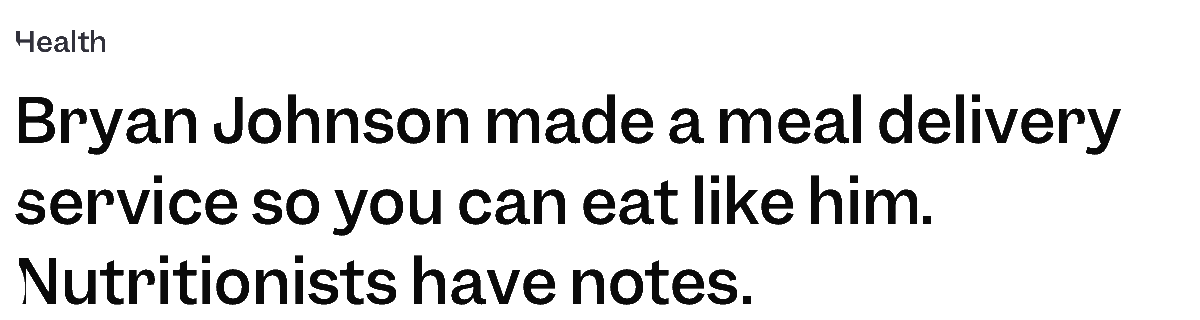
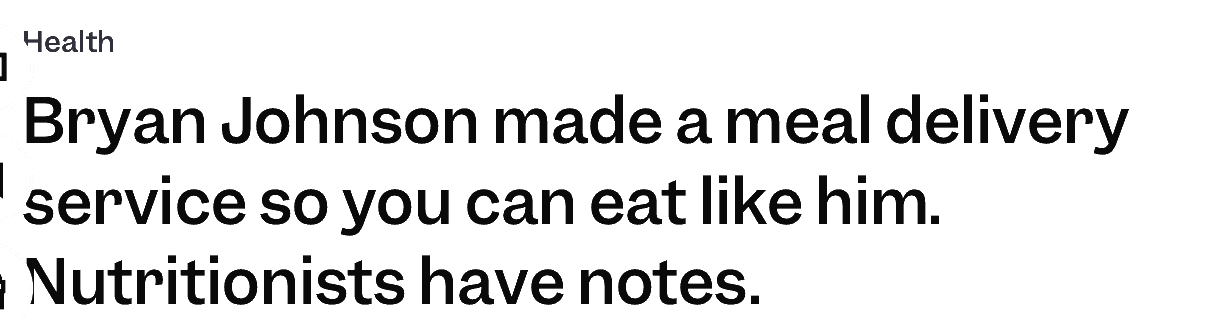
BI Story: use 'people do best when they have choices' quote, clean crops
Claude-Session: https://claude.ai/code/session_01CF5kZPHUyXZSqSxsL2qEtJ

diff --git a/carousels/story-business-insider/carousel.html b/carousels/story-business-insider/carousel.html
@@ -16,28 +16,32 @@
       .b1 { width: 760px; height: 760px; right: -260px; top: -200px; background: rgba(148,180,218,0.35); }
       .b2 { width: 620px; height: 620px; left: -240px; bottom: 120px; background: rgba(246,181,170,0.35); }
 
-      .kicker { position: absolute; top: 230px; left: 0; right: 0; text-align: center; font-weight: 800; font-size: 40px; letter-spacing: 0.22em; text-transform: uppercase; color: var(--terra); }
-      .pub { position: absolute; top: 290px; left: 0; right: 0; text-align: center; font-weight: 800; font-size: 92px; letter-spacing: -0.01em; }
+      .kicker { position: absolute; top: 210px; left: 0; right: 0; text-align: center; font-weight: 800; font-size: 40px; letter-spacing: 0.22em; text-transform: uppercase; color: var(--terra); }
+      .pub { position: absolute; top: 268px; left: 0; right: 0; text-align: center; font-weight: 800; font-size: 92px; letter-spacing: -0.01em; }
 
       .card {
         position: absolute; left: 90px; right: 90px; background: #fff; border-radius: 26px;
         box-shadow: 0 18px 50px rgba(0,31,63,0.16); overflow: hidden;
       }
       .card img { display: block; width: 100%; }
-      #c1 { top: 470px; padding: 34px 40px 30px; transform: rotate(-1.6deg); }
-      #c2 { top: 760px; padding: 30px 36px 26px; transform: rotate(1.2deg); }
-      .hl { position: absolute; left: 36px; right: 36px; top: 30px; height: 74%; background: rgba(246,181,170,0.42); border-radius: 10px; mix-blend-mode: multiply; }
+      #c1 { top: 450px; padding: 34px 44px 32px; transform: rotate(-1.6deg); }
+      .hk { font-weight: 700; font-size: 26px; color: #333; margin-bottom: 8px; }
+      .hh { font-family: Arial, Helvetica, sans-serif; font-weight: 700; font-size: 50px; line-height: 1.12; letter-spacing: -0.01em; color: #111; }
+      .hb { margin-top: 14px; font-weight: 700; font-size: 24px; color: #2557d6; }
+      #c2 { top: 790px; padding: 22px 30px 18px; transform: rotate(1deg); }
+      #c3 { top: 1000px; padding: 22px 30px 18px; transform: rotate(-0.8deg); }
+      .hl { position: absolute; left: 30px; right: 30px; top: 22px; bottom: 18px; background: rgba(246,181,170,0.42); border-radius: 10px; mix-blend-mode: multiply; }
 
-      .quote { position: absolute; left: 90px; right: 90px; top: 1130px; display: flex; align-items: center; gap: 34px; }
-      .photo { flex: 0 0 auto; width: 250px; height: 250px; border-radius: 50%; overflow: hidden; border: 8px solid #fff; box-shadow: 0 12px 34px rgba(0,31,63,0.2); }
+      .quote { position: absolute; left: 80px; right: 80px; top: 1255px; display: flex; align-items: center; gap: 34px; }
+      .photo { flex: 0 0 auto; width: 230px; height: 230px; border-radius: 50%; overflow: hidden; border: 8px solid #fff; box-shadow: 0 12px 34px rgba(0,31,63,0.2); }
       .photo img { width: 100%; height: 100%; object-fit: cover; object-position: 50% 30%; }
-      .qtext { font-style: italic; font-weight: 600; font-size: 54px; line-height: 1.18; }
-      .who { margin-top: 14px; font-style: normal; font-weight: 700; font-size: 30px; color: rgba(0,31,63,0.7); line-height: 1.3; }
+      .qtext { font-style: italic; font-weight: 600; font-size: 50px; line-height: 1.2; }
+      .who { margin-top: 12px; font-style: normal; font-weight: 700; font-size: 27px; color: rgba(0,31,63,0.7); line-height: 1.3; }
 
-      .read { position: absolute; left: 0; right: 0; top: 1610px; text-align: center; }
+      .read { position: absolute; left: 0; right: 0; top: 1635px; text-align: center; }
       .read { font-weight: 800; font-size: 40px; color: #f7f4f3; }
       .read { width: max-content; margin: 0 auto; background: var(--navy); border-radius: 999px; padding: 14px 40px 18px; }
-      .thanks { position: absolute; left: 90px; right: 90px; top: 1440px; text-align: center; font-weight: 700; font-size: 38px; line-height: 1.35; text-wrap: balance; }
+      .thanks { position: absolute; left: 90px; right: 90px; top: 1525px; text-align: center; font-weight: 700; font-size: 38px; line-height: 1.35; text-wrap: balance; }
     </style>
   </head>
   <body>
@@ -48,14 +52,19 @@
       <div class="kicker">As featured in</div>
       <div class="pub">Business Insider</div>
 
-      <div class="card" id="c1"><img src="img/headline.png" alt="Article headline" /></div>
-      <div class="card" id="c2"><div class="hl"></div><img src="img/laurel-para.png" alt="Laurel Santiago quoted in the article" /></div>
+      <div class="card" id="c1">
+        <div class="hk">Health</div>
+        <div class="hh">Bryan Johnson made a meal delivery service so you can eat like him. Nutritionists have notes.</div>
+        <div class="hb">By Gabby Landsverk · Nov 16, 2026</div>
+      </div>
+      <div class="card" id="c2"><img src="img/cred-para.png" alt="Laurel Santiago's credentials in the article" /></div>
+      <div class="card" id="c3"><div class="hl"></div><img src="img/quote-para.png" alt="Laurel Santiago quoted in the article" /></div>
 
       <div class="quote">
         <div class="photo"><img src="img/laurel.jpg" alt="Laurel Santiago" /></div>
         <div>
-          <div class="qtext">“I think they nailed a good balance.”</div>
-          <div class="who">Laurel Santiago, licensed dietitian-nutritionist</div>
+          <div class="qtext">“People do best when they have choices.”</div>
+          <div class="who">Laurel Santiago, licensed dietitian-nutritionist &amp; founder of the Integrative Center for Nutrition</div>
         </div>
       </div>
 
